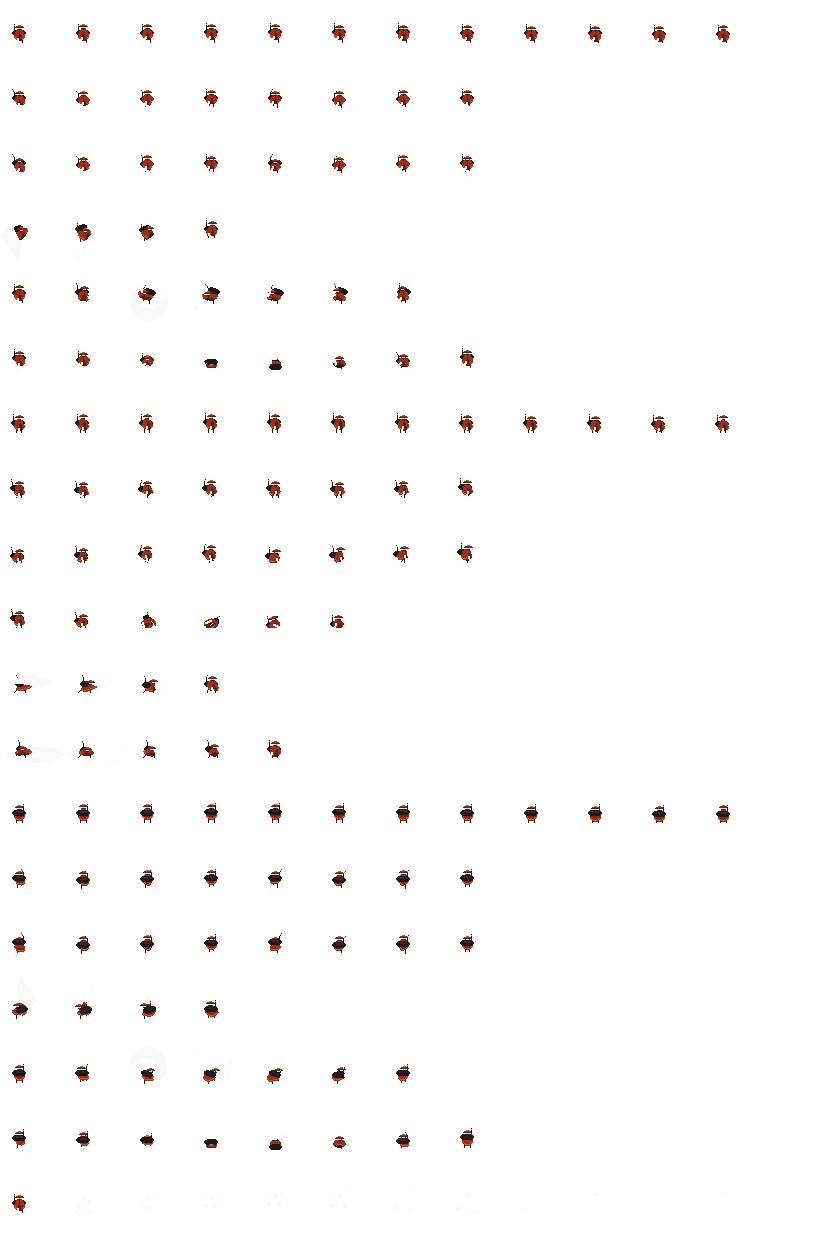
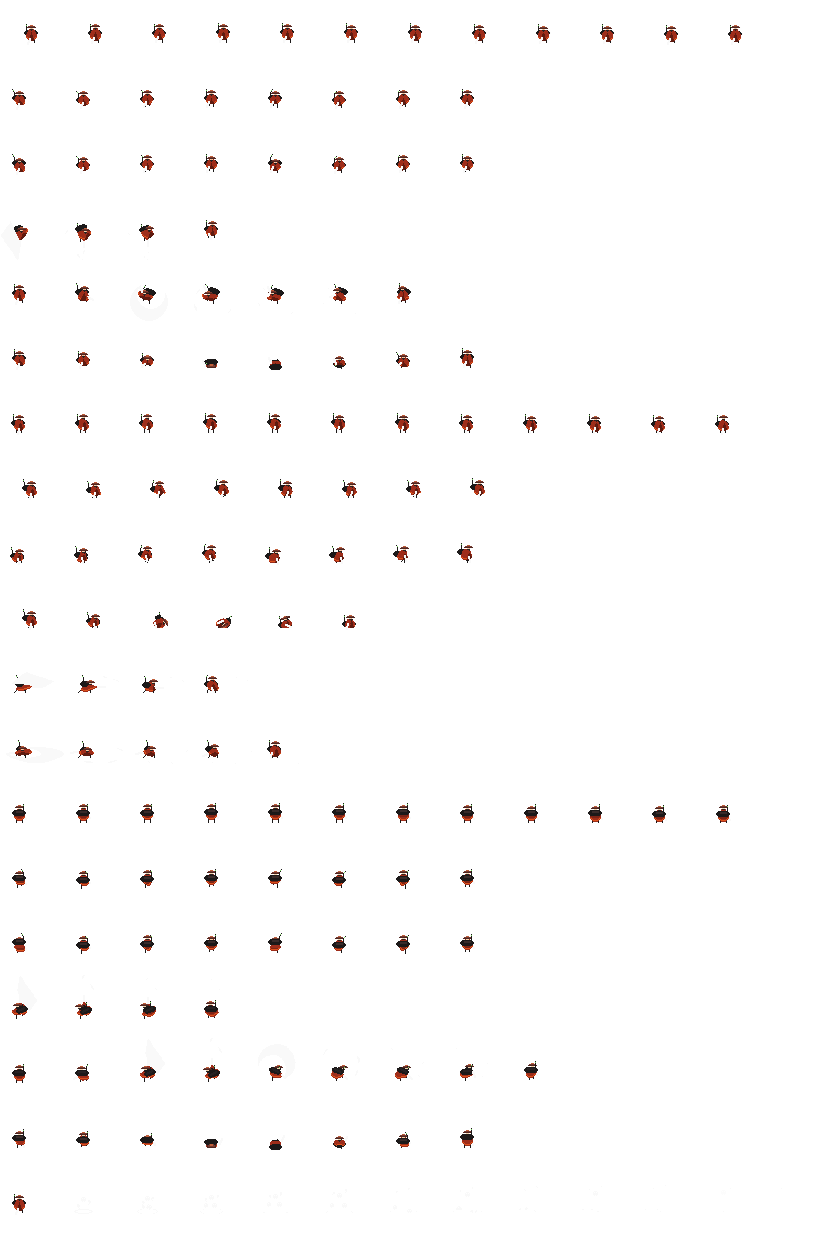
우클릭 시 쿨타임을 가지는 스킬 공격 추가 및 두 캐릭터 스킬 이미지 조정

diff --git a/player.py b/player.py
@@ -18,7 +18,7 @@ ACTION_PER_TIME = 1.0 / TIME_PER_ACTION
 FRAMES_PER_ACTION = 8
 
 class CharInfo:
-    def __init__(self, width, height, size_x, size_y, run_action, basic_atk_action, fall_action, idle_action, png, basic_atk_size_x, basic_atk_size_y):
+    def __init__(self, width, height, size_x, size_y, run_action, basic_atk_action, fall_action, idle_action, png, basic_atk_size_x, basic_atk_size_y, skill_atk_action, skill_atk_size_x, skill_atk_size_y):
         self.size_x, self.size_y = size_x, size_y
         self.png = png
         self.image = load_image(png)
@@ -28,7 +28,9 @@ class CharInfo:
         self.basic_atk_action= basic_atk_action
         self.fall_action = fall_action
         self.idle_action = idle_action
-
+        self.skill_atk_action = skill_atk_action
+        self.skill_atk_size_x = skill_atk_size_x
+        self.skill_atk_size_y = skill_atk_size_y
 class Player:
     def __init__(self):
         self.x, self.y = 400,90
@@ -41,6 +43,7 @@ class Player:
         self.panel = load_image('buttonSquare_blue.png')
         self.cliked_e = False
         self.png = 'Sci-fi hero 64x65.png'
+        self.skill_count = get_time()
 
         # 변신할 때 바껴야 할 것들
         self.charinfoexist = [False, False, False]
@@ -49,8 +52,10 @@ class Player:
         self.image = load_image(self.png)
         self.width, self.height = 64, 65
         self.basic_atk_size_x, self.basic_atk_size_y = 100, 50
+        self.skill_atk_size_x, self.skill_atk_size_y = 100, 100
         self.run_action = 11
         self.basic_atk_action= 8
+        self.skill_atk_action = 2
         self.fall_action = 9
         self.idle_action = 18
 
@@ -96,6 +101,13 @@ class Player:
             if self.frame >=4:
                 self.state = 'Idle'
 
+        if self.state == 'Skill_Attack':
+            self.action = self.skill_atk_action
+            self.frame = (self.frame + FRAMES_PER_ACTION * ACTION_PER_TIME * game_framework.frame_time//2)
+            if self.frame >=8:
+                self.state = 'Idle'
+                self.skill_count = get_time()
+
         # 땅과의 충돌 체크
         if self.y <= 90:
             self.y = 90
@@ -128,9 +140,15 @@ class Player:
                     0].basic_atk_size_x, self.basic_atk_size_x
                 self.basic_atk_size_y, self.charinfo[0].basic_atk_size_y = self.charinfo[
                     0].basic_atk_size_y, self.basic_atk_size_y
+                self.skill_atk_size_x, self.charinfo[0].skill_atk_size_x = self.charinfo[
+                    0].skill_atk_size_x, self.skill_atk_size_x
+                self.skill_atk_size_y, self.charinfo[0].skill_atk_size_y = self.charinfo[
+                    0].skill_atk_size_y, self.skill_atk_size_y
                 self.run_action, self.charinfo[0].run_action = self.charinfo[0].run_action, self.run_action
                 self.basic_atk_action, self.charinfo[0].basic_atk_action = self.charinfo[
                     0].basic_atk_action, self.basic_atk_action
+                self.skill_atk_action, self.charinfo[0].skill_atk_action = self.charinfo[
+                    0].skill_atk_action, self.skill_atk_action
                 self.fall_action, self.charinfo[0].fall_action = self.charinfo[0].fall_action, self.fall_action
                 self.idle_action, self.charinfo[0].idle_action = self.charinfo[0].idle_action, self.idle_action
 
@@ -158,8 +176,16 @@ class Player:
                     playeratk = attack.PlayerATKMonster(self.x - 25, self.y,self.basic_atk_size_x, self.basic_atk_size_y)
                 game_world.add_obj(playeratk, 1)
                 game_world.add_collision_pair('playerATK:monster', None, playeratk)
-
-                print('왼쪽 버튼 클릭')
+            if event.button == SDL_BUTTON_RIGHT and self.state == 'Idle'and get_time()- self.skill_count > 5:
+                self.frame = 0
+                self.action = self.skill_atk_action
+                self.state = 'Skill_Attack'
+                if self.x < self.mx:
+                    playeratk = attack.PlayerATKMonster(self.x + 25, self.y, self.skill_atk_size_x, self.skill_atk_size_y)
+                else:
+                    playeratk = attack.PlayerATKMonster(self.x - 25, self.y,self.skill_atk_size_x, self.skill_atk_size_y)
+                game_world.add_obj(playeratk, 1)
+                game_world.add_collision_pair('playerATK:monster', None, playeratk)
         elif event.type == SDL_MOUSEMOTION:
             self.mx, self.my = event.x , play_mode.DK_height - 1 - event.y
     def draw(self):
@@ -194,7 +220,7 @@ class Player:
             self.corpse = True
             if self.cliked_e:
                 self.charinfoexist[0] = True
-                self.charinfo.append(CharInfo(other.width, other.height, other.size_x, other.size_y, other.run_action, other.basic_atk_action, other.fall_action,other.idle_action, other.png, other.basic_atk_size_x, other.basic_atk_size_y))
+                self.charinfo.append(CharInfo(other.width, other.height, other.size_x, other.size_y, other.run_action, other.basic_atk_action, other.fall_action,other.idle_action, other.png, other.basic_atk_size_x, other.basic_atk_size_y, other.skill_atk_action, other.skill_atk_size_x, other.skill_atk_size_y))
                 game_world.remove_object(other)
         else:
             self.corpse = False

diff --git a/monster.py b/monster.py
@@ -52,9 +52,11 @@ class Panda(Monster):
         self.image = load_image('Tiny Panda Evil Version 103x33.png')
         self.run_action = 12
         self.basic_atk_action= 3
+        self.skill_atk_action = 6
+        self.basic_atk_size_x, self.basic_atk_size_y = 130, 50
+        self.skill_atk_size_x, self.skill_atk_size_y = 180, 100
         self.fall_action = 11
         self.idle_action = 13
-        self.basic_atk_size_x, self.basic_atk_size_y = 150, 50
         self.png = 'Tiny Panda Evil Version 103x33.png'
     def update(self):
         self.action = 12
